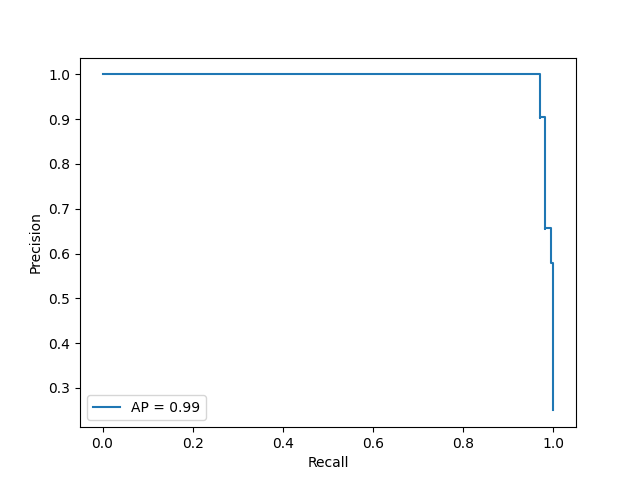
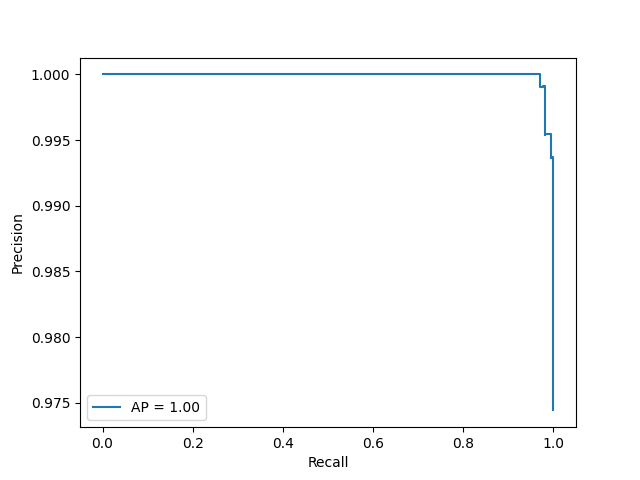
Use of Normal Test in Episodic

diff --git a/polycraft_nov_det/baselines/eval_episode.py b/polycraft_nov_det/baselines/eval_episode.py
@@ -47,9 +47,12 @@ def eval_from_save(output_folder):
         ep_scores[ep_num][frame_num] = novel_score
         nov_to_scores[nov_type] = ep_scores
 
-    # drop normal scores if included in data
+    # drop ArenaBlockHard scores if included in data
+    if "ArenaBlockHard" in nov_to_scores:
+        nov_to_scores.pop("ArenaBlockHard")
+    # filter out empty normal episode indices since only using test set
     if "normal" in nov_to_scores:
-        nov_to_scores.pop("normal")
+        nov_to_scores["normal"] = [scores for scores in nov_to_scores["normal"] if len(scores) > 0]
     # get list of max score for each episode
     nov_to_max_scores = {}
     for nov_type, ep_scores in nov_to_scores.items():
@@ -76,7 +79,9 @@ def ep_detection_metrics(nov_to_max_scores, output_folder):
         cur_novel_true[first_novel_ep:] = 1
         novel_true = torch.hstack((novel_true, cur_novel_true))
         novel_score = torch.hstack((novel_score, torch.Tensor(max_scores)))
-    tpr_95_thresh, prc_80_thresh = detection_metrics(output_folder, novel_true, novel_score)[-2:]
+    # detection metrics with 15% normal 85% novel weighting
+    tpr_95_thresh, prc_80_thresh = detection_metrics(
+        output_folder, novel_true, novel_score, .15)[-2:]
     return tpr_95_thresh, prc_80_thresh
 
 
@@ -85,11 +90,15 @@ def vis_trials(nov_to_max_scores, output_folder):
     for nov_type, max_scores in nov_to_max_scores.items():
         # get max normal reconstruction error
         first_novel_ep = ep_const.TEST_CLASS_FIRST_NOVEL_EP[nov_type]
+        if nov_type == "normal":  # normal will not have novel scores
+            first_novel_ep = len(max_scores)
         max_norm = max(max_scores[:first_novel_ep])
         # bar chart with lines for max normal reconstruction error and novelty split
         plt.figure(dpi=150)
         plt.bar(range(first_novel_ep), max_scores[:first_novel_ep], color="red")
-        plt.bar(range(first_novel_ep, len(max_scores)), max_scores[first_novel_ep:], color="green")
+        if nov_type != "normal":  # normal will not have novel scores
+            plt.bar(range(first_novel_ep, len(max_scores)), max_scores[first_novel_ep:],
+                    color="green")
         plt.axhline(max_norm, color="black")
         plt.title(nov_type)
         plt.savefig(output_folder / f"{nov_type}.png")
